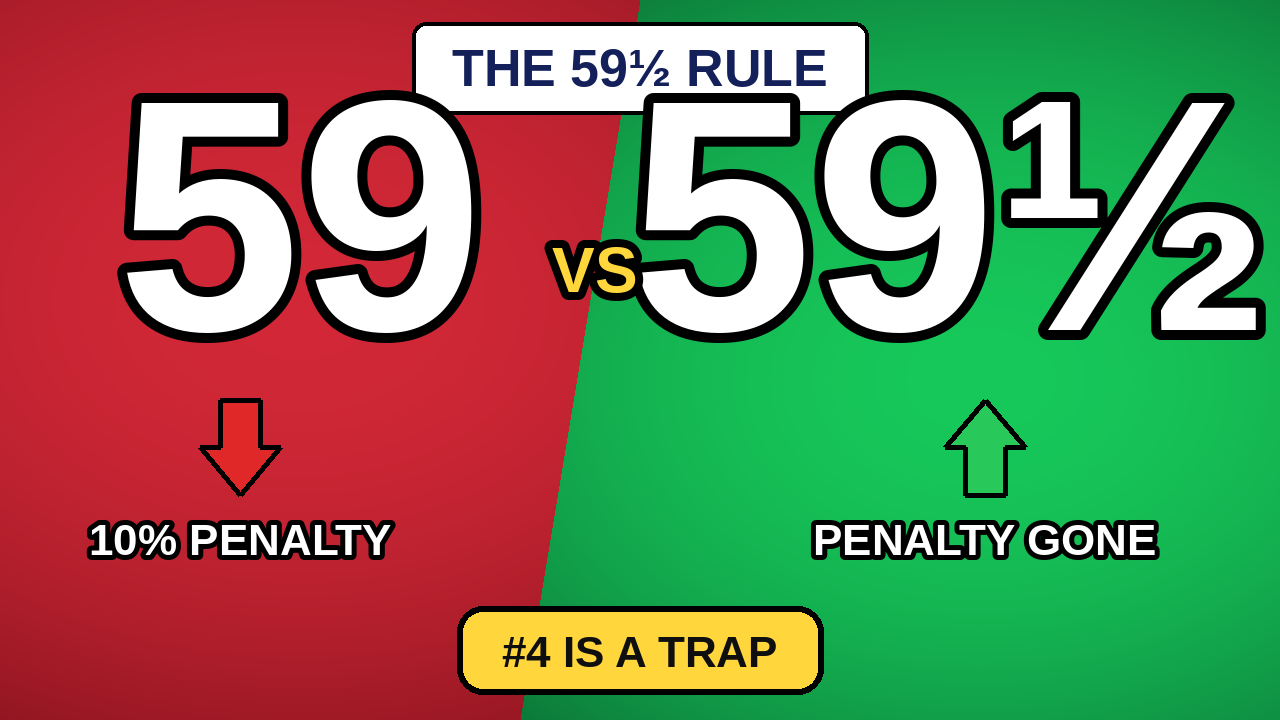
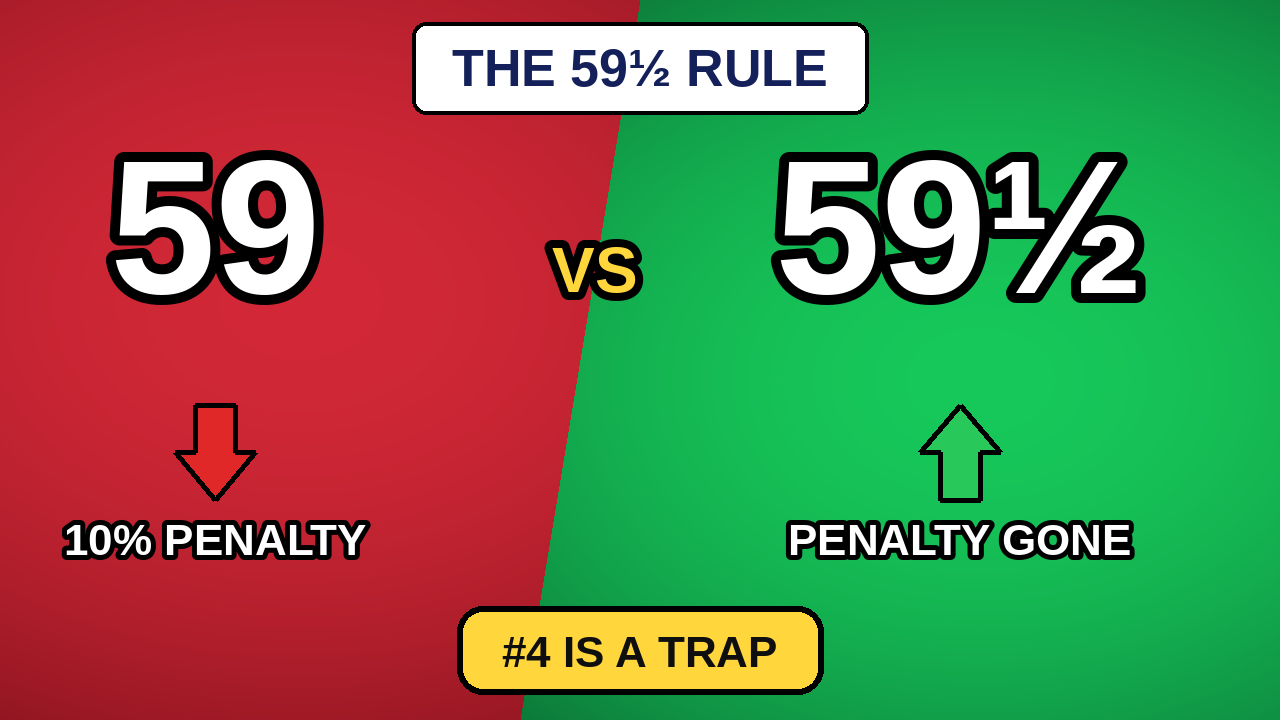
Video 3: miniature rosso/verde, misure corrette
Claude-Session: https://claude.ai/code/session_01VdcN6aGh1CnYp1K1Fxe615

diff --git a/money_backstory/code/thumbs_video3_split.py b/money_backstory/code/thumbs_video3_split.py
@@ -74,12 +74,12 @@ def s1():
     """Titolo 1: 59 (rosso, giu') vs 59 1/2 (verde, su') - 10.000 $"""
     im = split_bg(); d = ImageDraw.Draw(im)
     top_box(d, "THE 59½ RULE")
-    outlined(d, "59", FN(330), 300, 90)
-    outlined(d, "59½", FN(330), 950, 90)
+    outlined(d, "59", FN(190), 215, 150)
+    outlined(d, "59½", FN(190), 960, 150)
     f = FN(64); d.text((595, 270), "VS", font=f, fill=YEL, anchor="mm", stroke_width=8, stroke_fill=(0, 0, 0))
-    small_arrow(d, 240, 400, False, RED); small_arrow(d, 985, 400, True, (40, 200, 90))
-    d.text((240, 540), "10% PENALTY", font=FN(44), fill=(255, 255, 255), anchor="mm", stroke_width=5, stroke_fill=(0, 0, 0))
-    d.text((985, 540), "PENALTY GONE", font=FN(44), fill=(255, 255, 255), anchor="mm", stroke_width=5, stroke_fill=(0, 0, 0))
+    small_arrow(d, 215, 405, False, RED); small_arrow(d, 960, 405, True, (40, 200, 90))
+    d.text((215, 540), "10% PENALTY", font=FN(44), fill=(255, 255, 255), anchor="mm", stroke_width=5, stroke_fill=(0, 0, 0))
+    d.text((960, 540), "PENALTY GONE", font=FN(44), fill=(255, 255, 255), anchor="mm", stroke_width=5, stroke_fill=(0, 0, 0))
     bottom_pill(d, "#4 IS A TRAP", YEL, (15, 15, 15), 44, 606)
     return im
 
